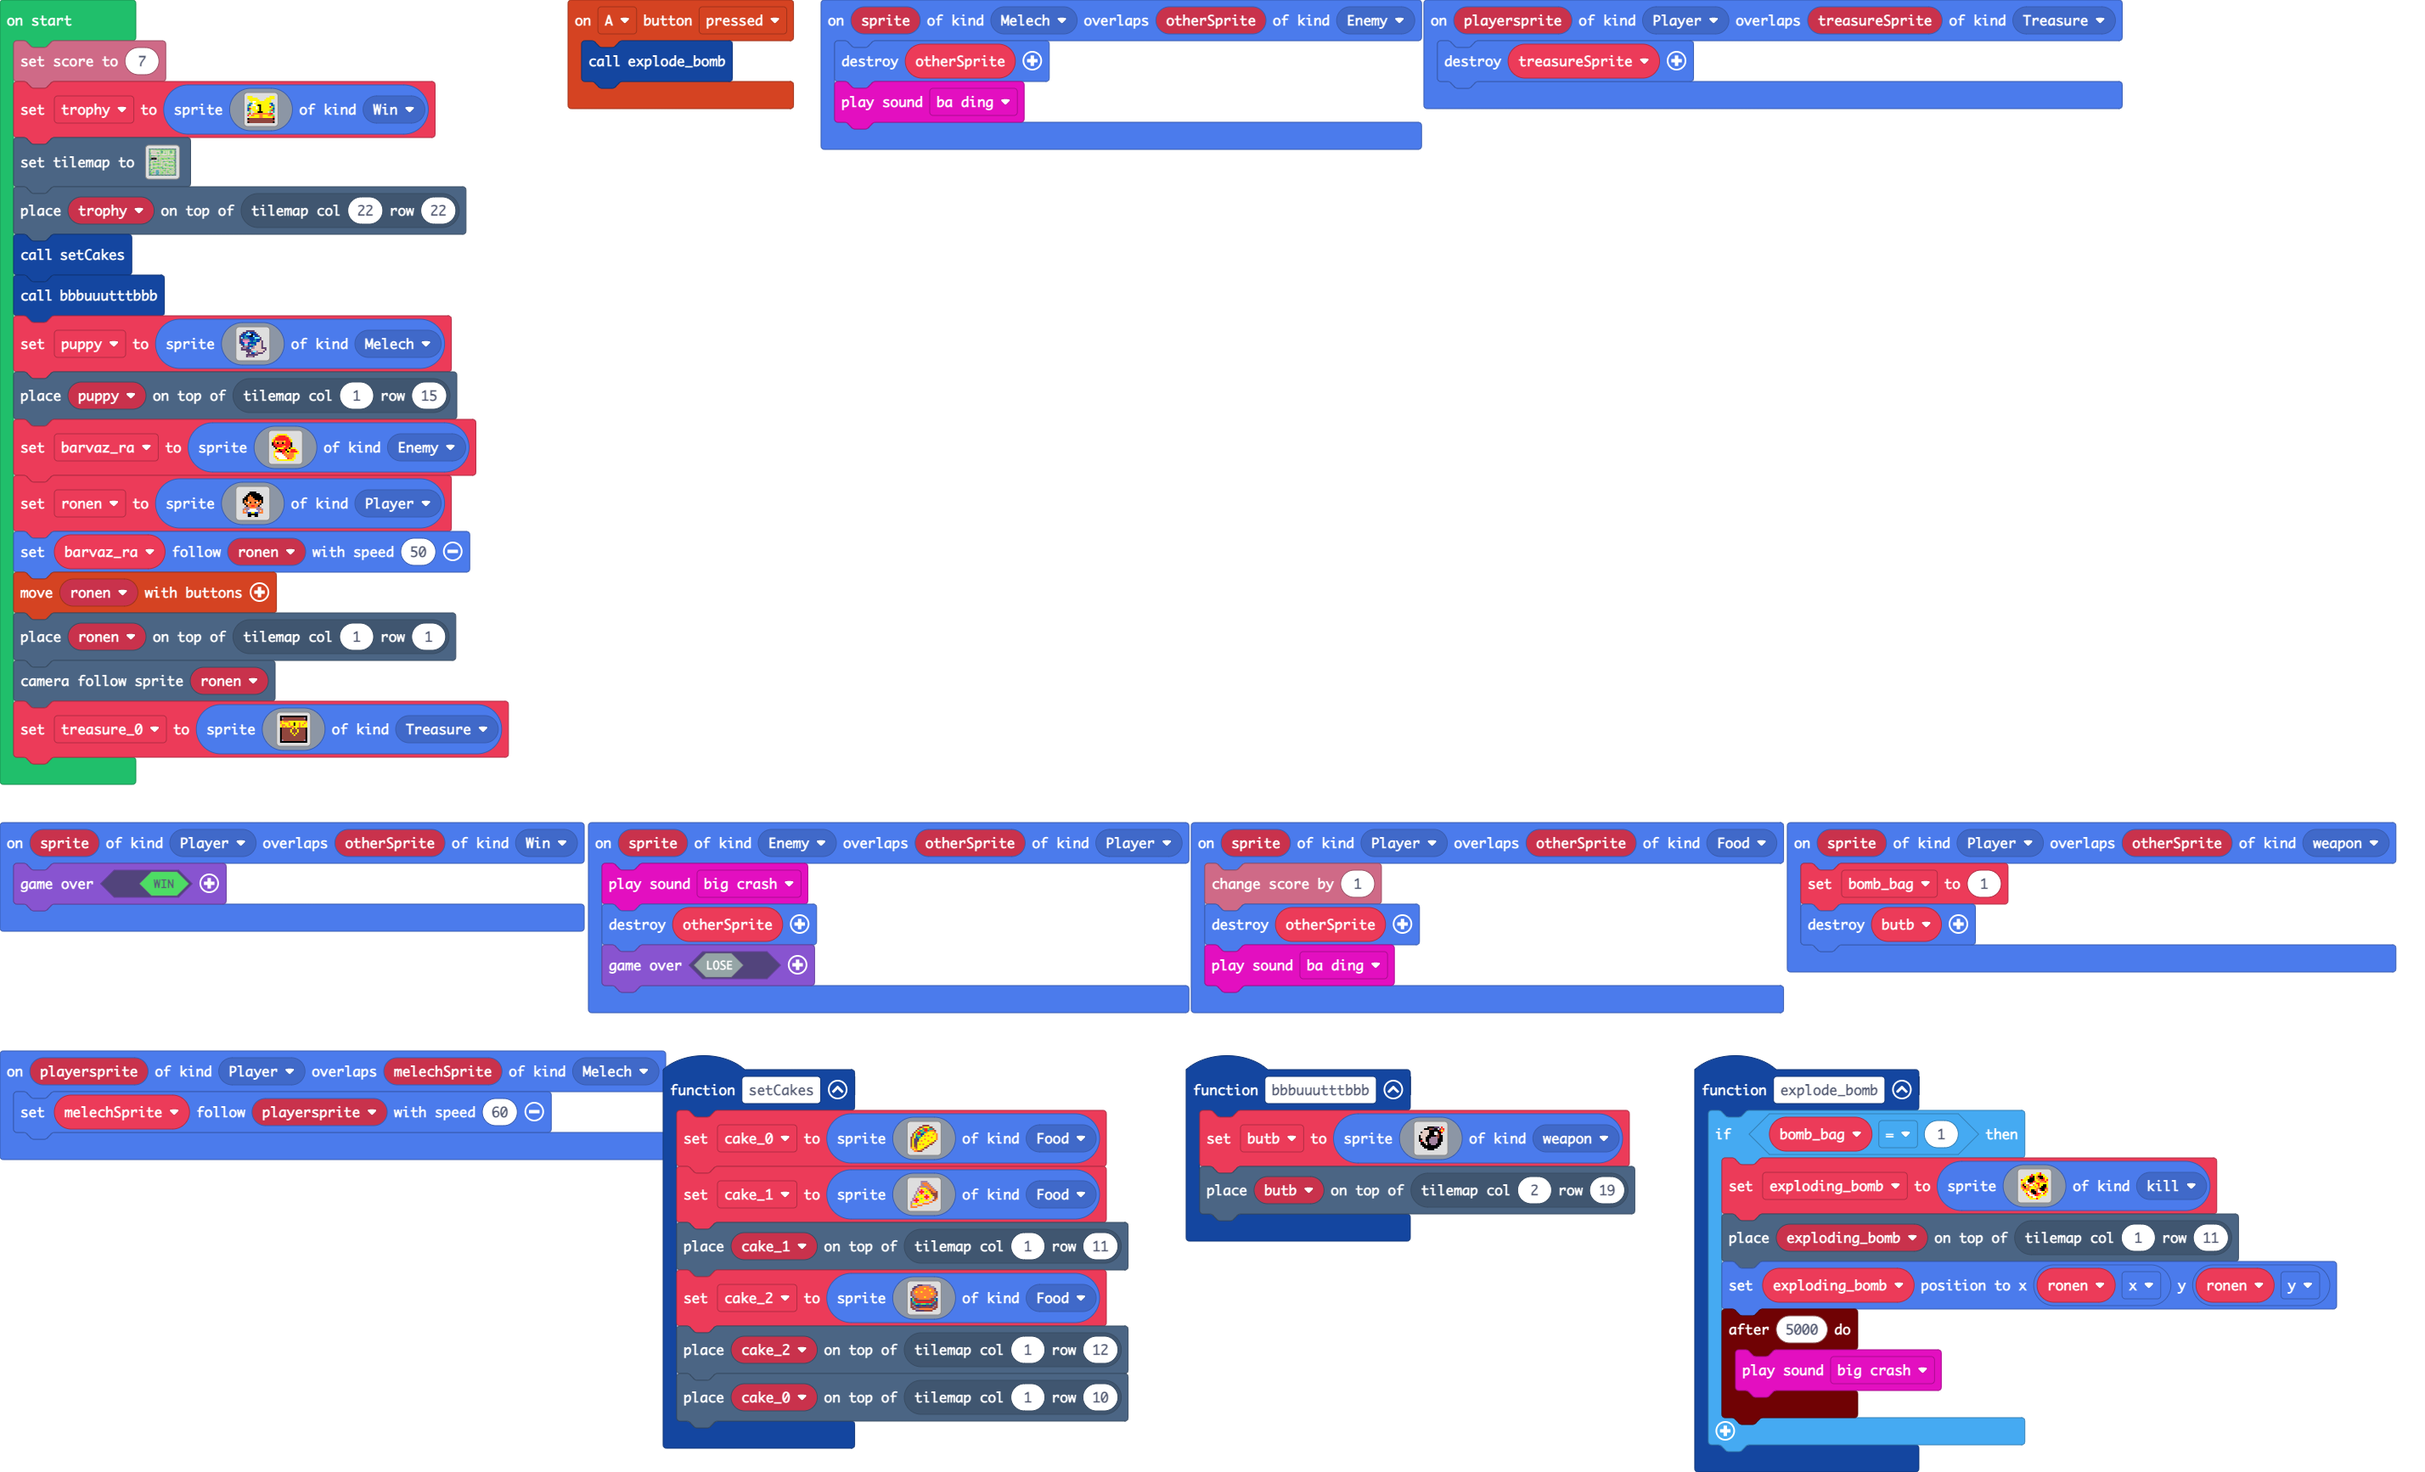
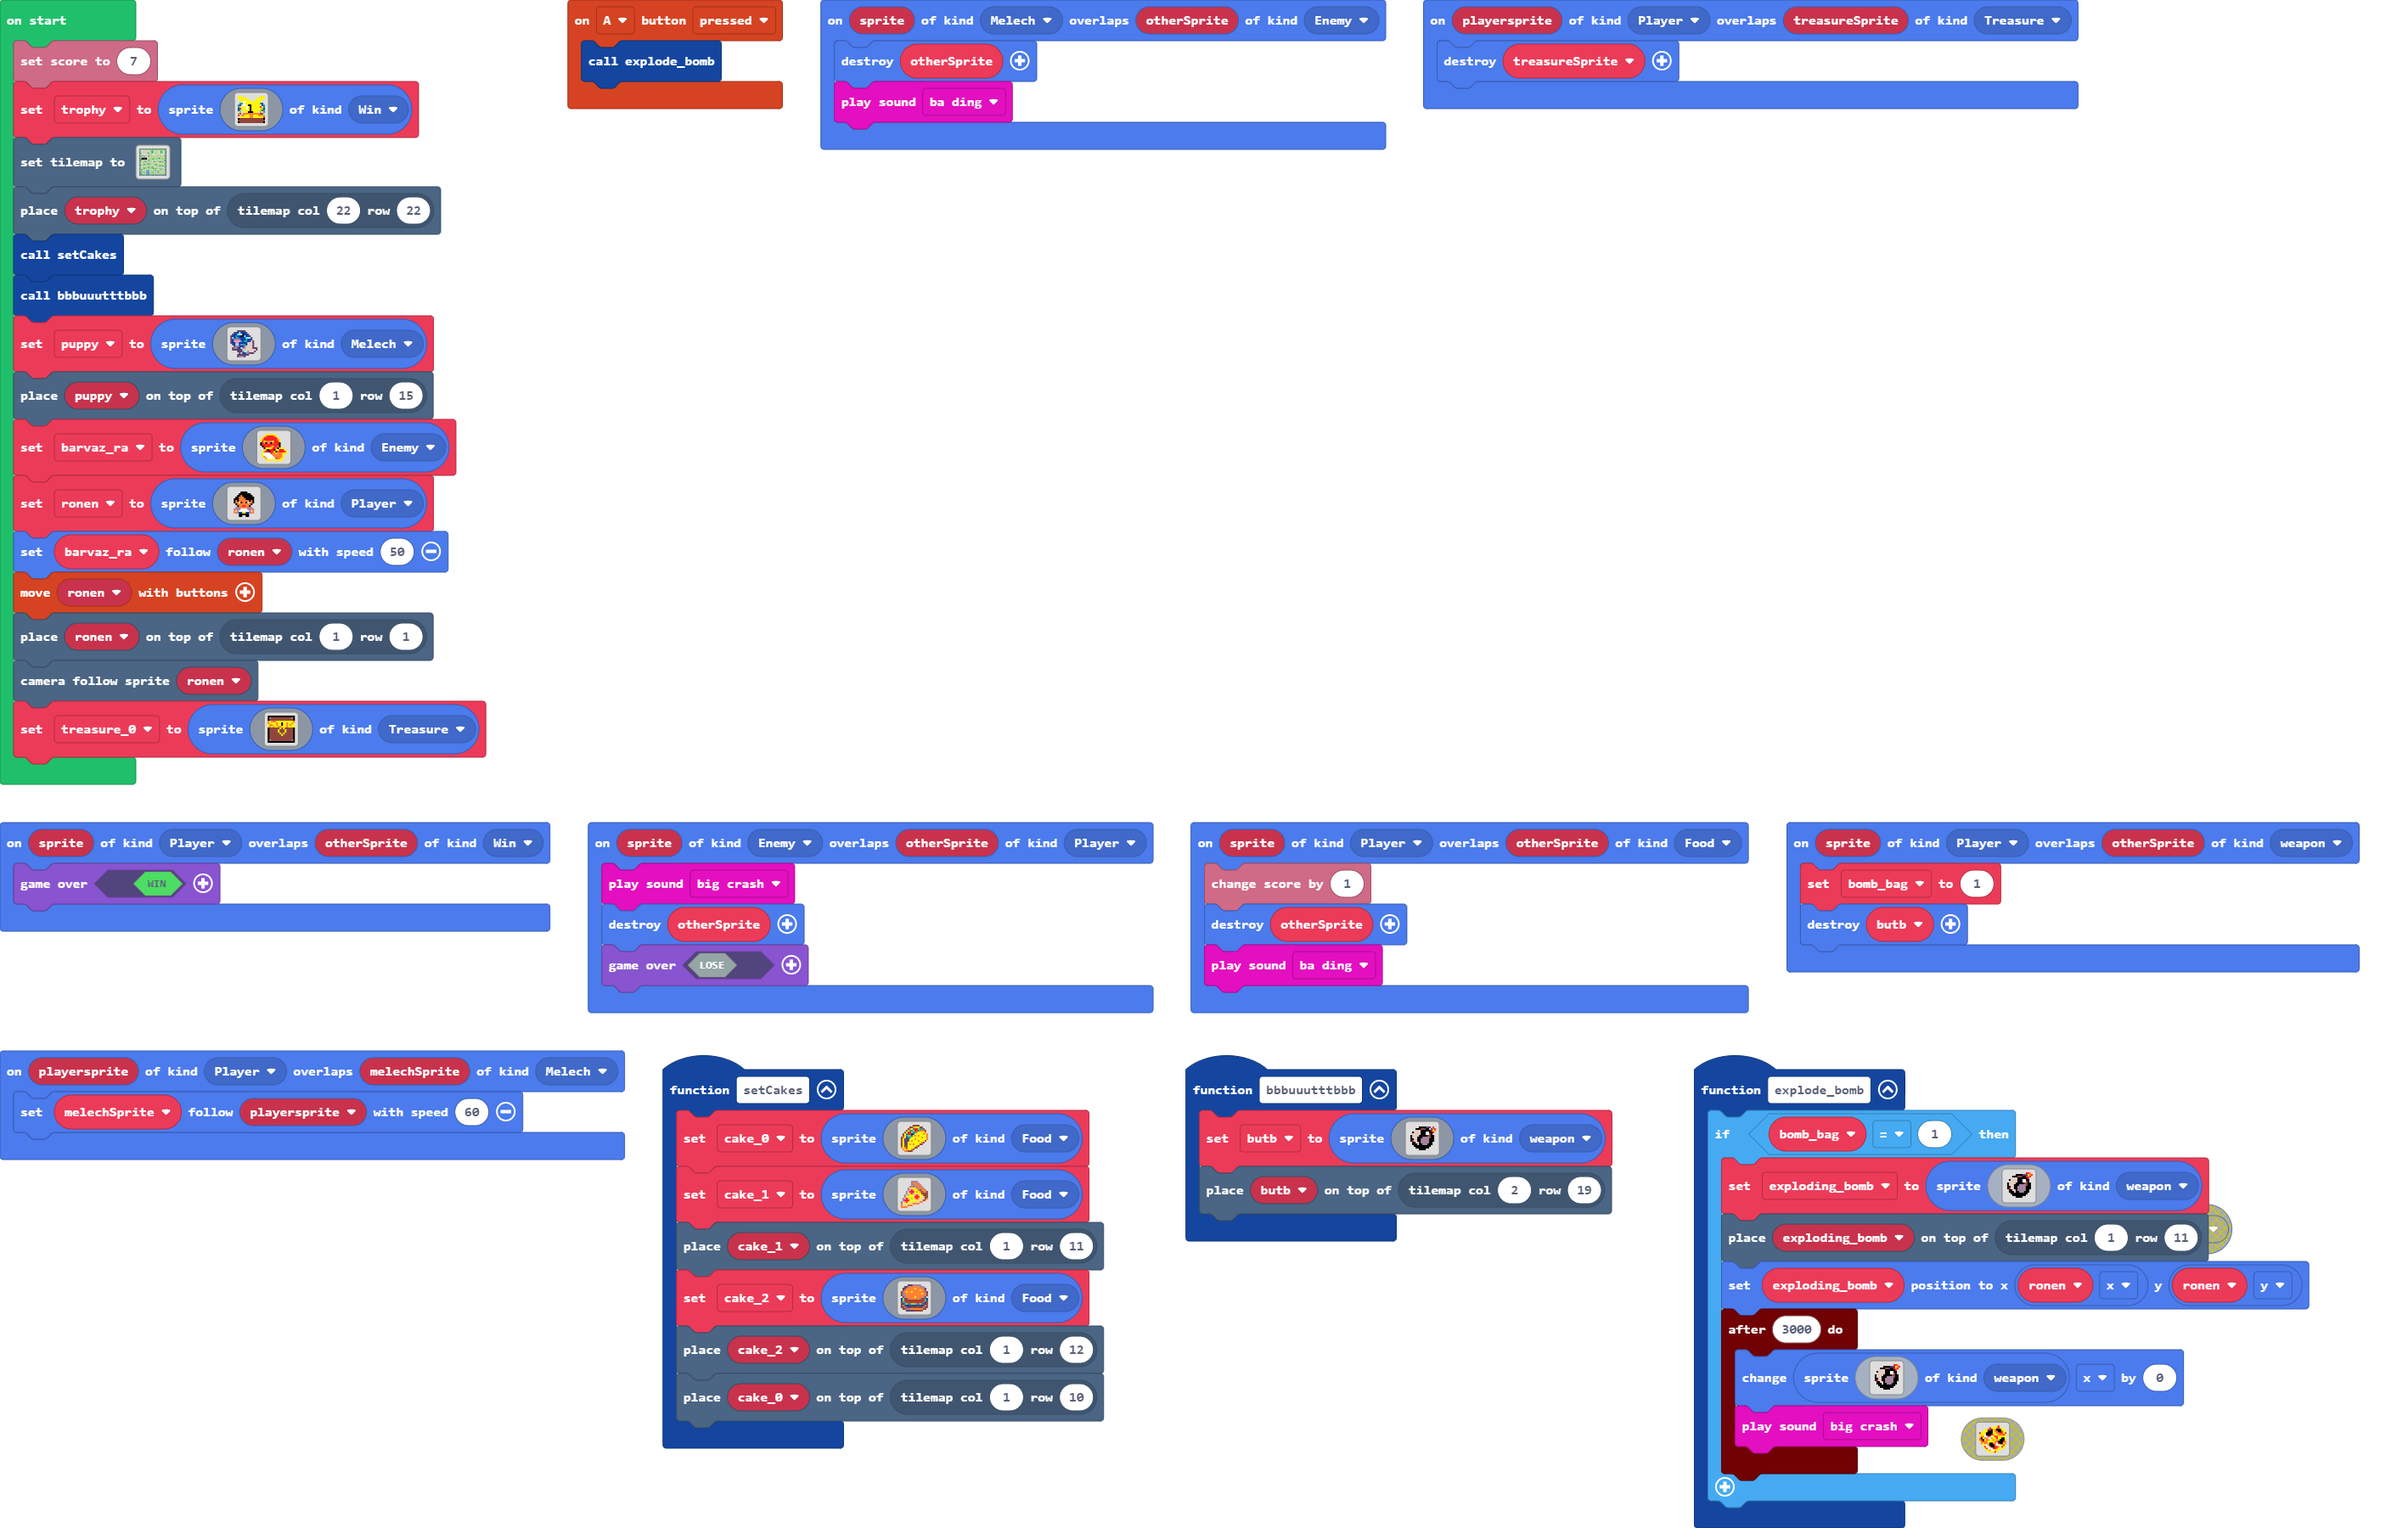
Update main.blocks, main.ts

Changed region(s): [[0.0, 0.0, 0.9975, 1.0], [0.2182, 0.0, 0.8728, 0.1246]]

diff --git a/main.ts b/main.ts
@@ -110,10 +110,45 @@ sprites.onOverlap(SpriteKind.Player, SpriteKind.Food, function (sprite, otherSpr
 })
 function explode_bomb () {
     if (bomb_bag == 1) {
-        exploding_bomb = sprites.create(assets.image`exploding_bomb`, SpriteKind.kill)
+        exploding_bomb = sprites.create(img`
+            . . . . . . . . . . . . 2 2 4 . 
+            . . . . . . f f f f c c c 5 4 2 
+            . . . . f f f e e c f f 2 4 2 . 
+            . . . d d d d f f f f f f 2 . . 
+            . . f d d d d f f f 1 1 f f . . 
+            . . d d d d d f f f 1 1 e f . . 
+            . f d d d d f f f f f e e f f . 
+            . f d d d f f f b b b b e f f . 
+            . f f d d f f b b b b b f f f . 
+            . f 2 d d f f b b b b b f f f . 
+            . . f f d d f b b b b b f f . . 
+            . . f f f d f f b b b f f f . . 
+            . . . f f f f f f f f f f . . . 
+            . . . . f f f f f f f f . . . . 
+            . . . . . . f f f f . . . . . . 
+            . . . . . . . . . . . . . . . . 
+            `, SpriteKind.weapon)
         tiles.placeOnTile(exploding_bomb, tiles.getTileLocation(1, 11))
         exploding_bomb.setPosition(ronen.x, ronen.y)
-        timer.after(5000, function () {
+        timer.after(3000, function () {
+            sprites.create(img`
+                . . . . . . . . . . . . 2 2 4 . 
+                . . . . . . f f f f c c c 5 4 2 
+                . . . . f f f e e c f f 2 4 2 . 
+                . . . d d d d f f f f f f 2 . . 
+                . . f d d d d f f f 1 1 f f . . 
+                . . d d d d d f f f 1 1 e f . . 
+                . f d d d d f f f f f e e f f . 
+                . f d d d f f f b b b b e f f . 
+                . f f d d f f b b b b b f f f . 
+                . f 2 d d f f b b b b b f f f . 
+                . . f f d d f b b b b b f f . . 
+                . . f f f d f f b b b f f f . . 
+                . . . f f f f f f f f f f . . . 
+                . . . . f f f f f f f f . . . . 
+                . . . . . . f f f f . . . . . . 
+                . . . . . . . . . . . . . . . . 
+                `, SpriteKind.weapon).x += 0
             music.bigCrash.play()
         })
     }
